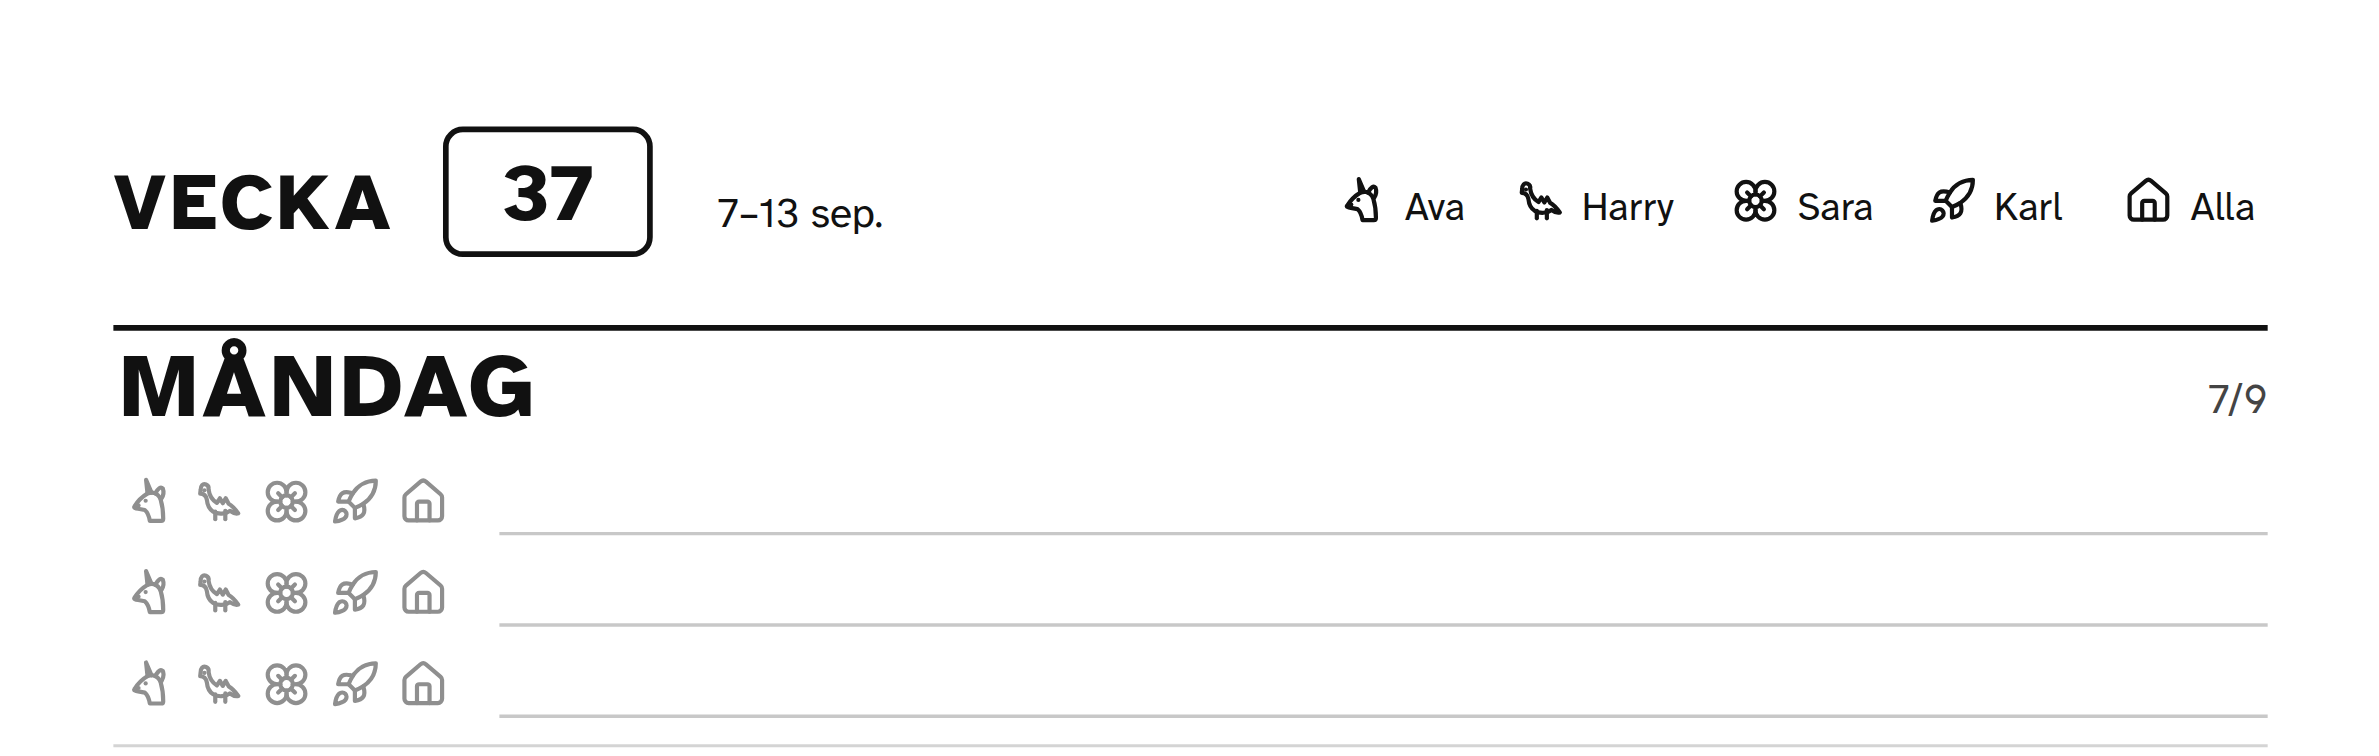
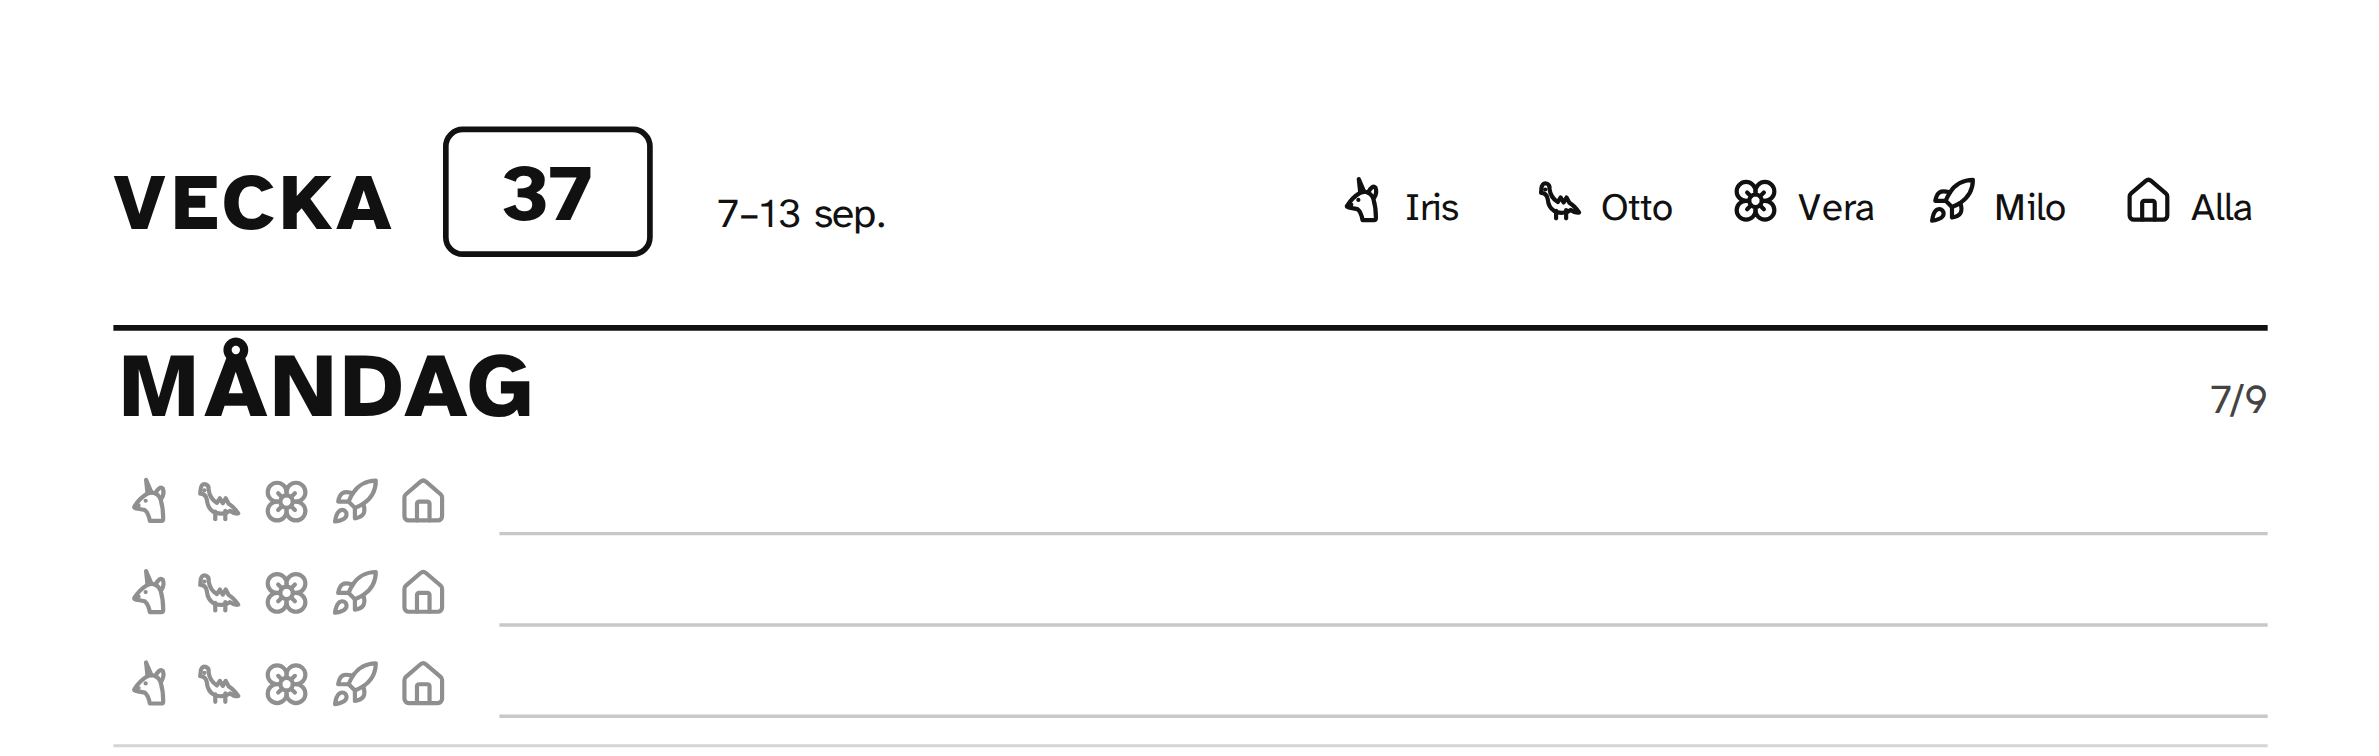
Use invented names in every example (#9)

diff --git a/packages/core/test/config.test.ts b/packages/core/test/config.test.ts
@@ -10,10 +10,10 @@ import {
 } from '../src/config.js';
 
 const people = [
-  { name: 'Ava', symbol: 'unicorn' },
-  { name: 'Harry', symbol: 'dinosaur' },
-  { name: 'Sara', symbol: 'flower' },
-  { name: 'Karl', symbol: 'rocket', initial: 'K' },
+  { name: 'Iris', symbol: 'unicorn' },
+  { name: 'Otto', symbol: 'dinosaur' },
+  { name: 'Vera', symbol: 'flower' },
+  { name: 'Milo', symbol: 'rocket', initial: 'M' },
 ];
 
 describe('resolveConfig', () => {
@@ -43,7 +43,7 @@ describe('resolveConfig', () => {
     });
     expect(config.locale).toBe('sv-SE');
     expect(config.people).toHaveLength(4);
-    expect(config.people[3]?.initial).toBe('K');
+    expect(config.people[3]?.initial).toBe('M');
     expect(config.weekStarting).toBe('2026-09-07');
   });
 
@@ -76,18 +76,18 @@ describe('resolveConfig', () => {
     [{ locale: 'not a locale' }, 'locale'],
     [{ locale: '' }, 'locale'],
     [{ people: [] }, 'people'],
-    [{ people: 'Ava' }, 'people'],
+    [{ people: 'Iris' }, 'people'],
     [{ people: Array(7).fill({ name: 'X', symbol: 'cat' }) }, 'people'],
     [{ people: [{ name: '', symbol: 'cat' }] }, 'people[0].name'],
     [{ people: [{ name: 'A'.repeat(25), symbol: 'cat' }] }, 'people[0].name'],
-    [{ people: [{ name: 'Ava', symbol: 'dragon' }] }, 'people[0].symbol'],
-    [{ people: [{ name: 'Ava', symbol: 'cat', initial: 'AVA' }] }, 'people[0].initial'],
-    [{ people: [{ name: 'Ava', symbol: 'cat', initial: '' }] }, 'people[0].initial'],
-    [{ people: [{ name: 'Ava', symbol: 'cat', colour: 'red' }] }, 'people[0].colour'],
+    [{ people: [{ name: 'Iris', symbol: 'dragon' }] }, 'people[0].symbol'],
+    [{ people: [{ name: 'Iris', symbol: 'cat', initial: 'IRIS' }] }, 'people[0].initial'],
+    [{ people: [{ name: 'Iris', symbol: 'cat', initial: '' }] }, 'people[0].initial'],
+    [{ people: [{ name: 'Iris', symbol: 'cat', colour: 'red' }] }, 'people[0].colour'],
     [
       {
         people: [
-          { name: 'Ava', symbol: 'cat' },
+          { name: 'Iris', symbol: 'cat' },
           { name: 'Bo', symbol: 'cat' },
         ],
       },
@@ -97,8 +97,8 @@ describe('resolveConfig', () => {
       {
         markStyle: 'initial',
         people: [
-          { name: 'Sara', symbol: 'cat' },
-          { name: 'Sam', symbol: 'dog' },
+          { name: 'Vera', symbol: 'cat' },
+          { name: 'Viktor', symbol: 'dog' },
         ],
       },
       'people[1].initial',
@@ -115,15 +115,15 @@ describe('resolveConfig', () => {
 
   it('allows the same first letter when a distinct initial is given, and in symbol mode', () => {
     const people = [
-      { name: 'Sara', symbol: 'cat' },
-      { name: 'Sam', symbol: 'dog', initial: 'Sm' },
+      { name: 'Vera', symbol: 'cat' },
+      { name: 'Viktor', symbol: 'dog', initial: 'Vk' },
     ];
     expect(validateConfig({ markStyle: 'initial', people }).ok).toBe(true);
     expect(
       validateConfig({
         people: [
-          { name: 'Sara', symbol: 'cat' },
-          { name: 'Sam', symbol: 'dog' },
+          { name: 'Vera', symbol: 'cat' },
+          { name: 'Viktor', symbol: 'dog' },
         ],
       }).ok,
     ).toBe(true);
@@ -153,9 +153,9 @@ describe('resolveConfig', () => {
 
 describe('personInitial', () => {
   it('uses the explicit initial, else the first character', () => {
-    expect(personInitial({ name: 'Karl', symbol: 'cat', initial: 'KE' })).toBe('KE');
+    expect(personInitial({ name: 'Milo', symbol: 'cat', initial: 'ML' })).toBe('ML');
     expect(personInitial({ name: 'Åsa', symbol: 'cat' })).toBe('Å');
-    expect(personInitial({ name: '👧 Ava', symbol: 'cat' })).toBe('👧');
+    expect(personInitial({ name: '👧 Iris', symbol: 'cat' })).toBe('👧');
   });
 });
 
@@ -187,7 +187,7 @@ describe('encodeConfig / decodeConfig', () => {
     const config = resolveConfig({ people, linesPerDay: 2 });
     const json = JSON.parse(Buffer.from(encodeConfig(config), 'base64url').toString('utf8'));
     expect(Object.keys(json).sort()).toEqual(['linesPerDay', 'p', 'v']);
-    expect(json.p[3]).toEqual(['Karl', 'rocket', 'K']);
+    expect(json.p[3]).toEqual(['Milo', 'rocket', 'M']);
   });
 
   it('rejects garbage, wrong versions and invalid payloads', () => {

diff --git a/packages/core/scripts/sample.ts b/packages/core/scripts/sample.ts
@@ -17,11 +17,12 @@ const root = join(dirname(fileURLToPath(import.meta.url)), '..', '..', '..');
 const outDir = join(root, 'examples', 'out');
 mkdirSync(outDir, { recursive: true });
 
+// Invented people. Examples in this repository never use real names.
 const family = [
-  { name: 'Ava', symbol: 'unicorn' },
-  { name: 'Harry', symbol: 'dinosaur' },
-  { name: 'Sara', symbol: 'flower' },
-  { name: 'Karl', symbol: 'rocket' },
+  { name: 'Iris', symbol: 'unicorn' },
+  { name: 'Otto', symbol: 'dinosaur' },
+  { name: 'Vera', symbol: 'flower' },
+  { name: 'Milo', symbol: 'rocket' },
 ];
 
 const samples: Record<string, SheetConfigInput> = {
@@ -32,7 +33,7 @@ const samples: Record<string, SheetConfigInput> = {
   'a4-de-four-lines': { locale: 'de-DE', people: family.slice(0, 3), linesPerDay: 4 },
   'a4-fi-six-people': {
     locale: 'fi-FI',
-    people: [...family, { name: 'Mummo', symbol: 'cat' }, { name: 'Vaari', symbol: 'tractor' }],
+    people: [...family, { name: 'Aino', symbol: 'cat' }, { name: 'Eero', symbol: 'tractor' }],
   },
   'a4-sv-minimal': {
     locale: 'sv-SE',

diff --git a/packages/core/test/visual/sheet.spec.ts b/packages/core/test/visual/sheet.spec.ts
@@ -2,11 +2,12 @@
 import { expect, test } from '@playwright/test';
 import { renderSheet, resolveConfig, type SheetConfigInput } from '../../src/index.js';
 
+// Invented people. Examples in this repository never use real names.
 const family = [
-  { name: 'Ava', symbol: 'unicorn' },
-  { name: 'Harry', symbol: 'dinosaur' },
-  { name: 'Sara', symbol: 'flower' },
-  { name: 'Karl', symbol: 'rocket' },
+  { name: 'Iris', symbol: 'unicorn' },
+  { name: 'Otto', symbol: 'dinosaur' },
+  { name: 'Vera', symbol: 'flower' },
+  { name: 'Milo', symbol: 'rocket' },
 ];
 
 /**
@@ -21,7 +22,7 @@ const cases: Record<string, SheetConfigInput> = {
   'a4-fi-six-people-four-lines': {
     locale: 'fi-FI',
     linesPerDay: 4,
-    people: [...family, { name: 'Mummo', symbol: 'cat' }, { name: 'Vaari', symbol: 'tractor' }],
+    people: [...family, { name: 'Aino', symbol: 'cat' }, { name: 'Eero', symbol: 'tractor' }],
   },
   'letter-en-us': { locale: 'en-US', paper: 'Letter', people: family.slice(0, 2) },
   'a4-pt-no-header': {

diff --git a/packages/core/test/render.test.ts b/packages/core/test/render.test.ts
@@ -3,10 +3,10 @@ import { resolveConfig } from '../src/config.js';
 import { renderSheet, renderSheetFromInput, renderSvg } from '../src/render.js';
 
 const family = [
-  { name: 'Ava', symbol: 'unicorn' },
-  { name: 'Harry', symbol: 'dinosaur' },
-  { name: 'Sara', symbol: 'flower' },
-  { name: 'Karl', symbol: 'rocket' },
+  { name: 'Iris', symbol: 'unicorn' },
+  { name: 'Otto', symbol: 'dinosaur' },
+  { name: 'Vera', symbol: 'flower' },
+  { name: 'Milo', symbol: 'rocket' },
 ];
 
 describe('renderSvg', () => {
@@ -20,7 +20,7 @@ describe('renderSvg', () => {
     expect(svg).toContain('>SÖNDAG<');
     expect(svg).toContain('>VECKA<');
     expect(svg).toContain('>Alla<');
-    expect(svg).toContain('>Ava<');
+    expect(svg).toContain('>Iris<');
   });
 
   it('references one symbol definition per distinct symbol and uses them per line', () => {

diff --git a/apps/web/test/sheetState.test.ts b/apps/web/test/sheetState.test.ts
@@ -30,8 +30,8 @@ const throwingStorage = {
 const family = resolveConfig({
   locale: 'sv-SE',
   people: [
-    { name: 'Ava', symbol: 'unicorn' },
-    { name: 'Karl', symbol: 'rocket' },
+    { name: 'Iris', symbol: 'unicorn' },
+    { name: 'Milo', symbol: 'rocket' },
   ],
   linesPerDay: 2,
 });
